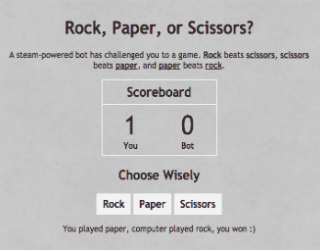
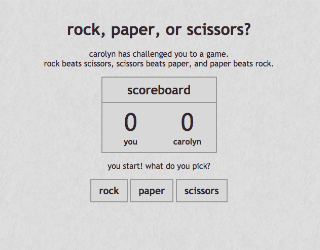
update game

diff --git a/index.html b/index.html
@@ -145,9 +145,9 @@
           </div>
           <div class="col-md-4 text-center">
             <div class="portfolio-box">
-              <p>rock, paper, scissors<br><span class="tools">HTML5, CSS3, JavaScript</span></p>
+              <p>rock, paper, scissors<br><span class="tools">HTML5, CSS3, AngularJS</span></p>
               <img src="img/rockpaperscissors.png" class="img-responsive" alt="rockpaperscissors" />
-              <p><a href="https://github.com/csdaniel17/rock-paper-scissors" class="btn btn-default btn-lg" target="_blank">repo</a>  <a href="http://danielrockpaperscissors.surge.sh/" class="btn btn-default btn-lg" target="_blank">demo</a></p>
+              <p><a href="https://github.com/csdaniel17/rock-paper-scissors-angularjs" class="btn btn-default btn-lg" target="_blank">repo</a>  <a href="http://danielrockpaperscissors-angular.surge.sh/" class="btn btn-default btn-lg" target="_blank">demo</a></p>
             </div>
           </div>
           <div class="col-md-4 text-center">
